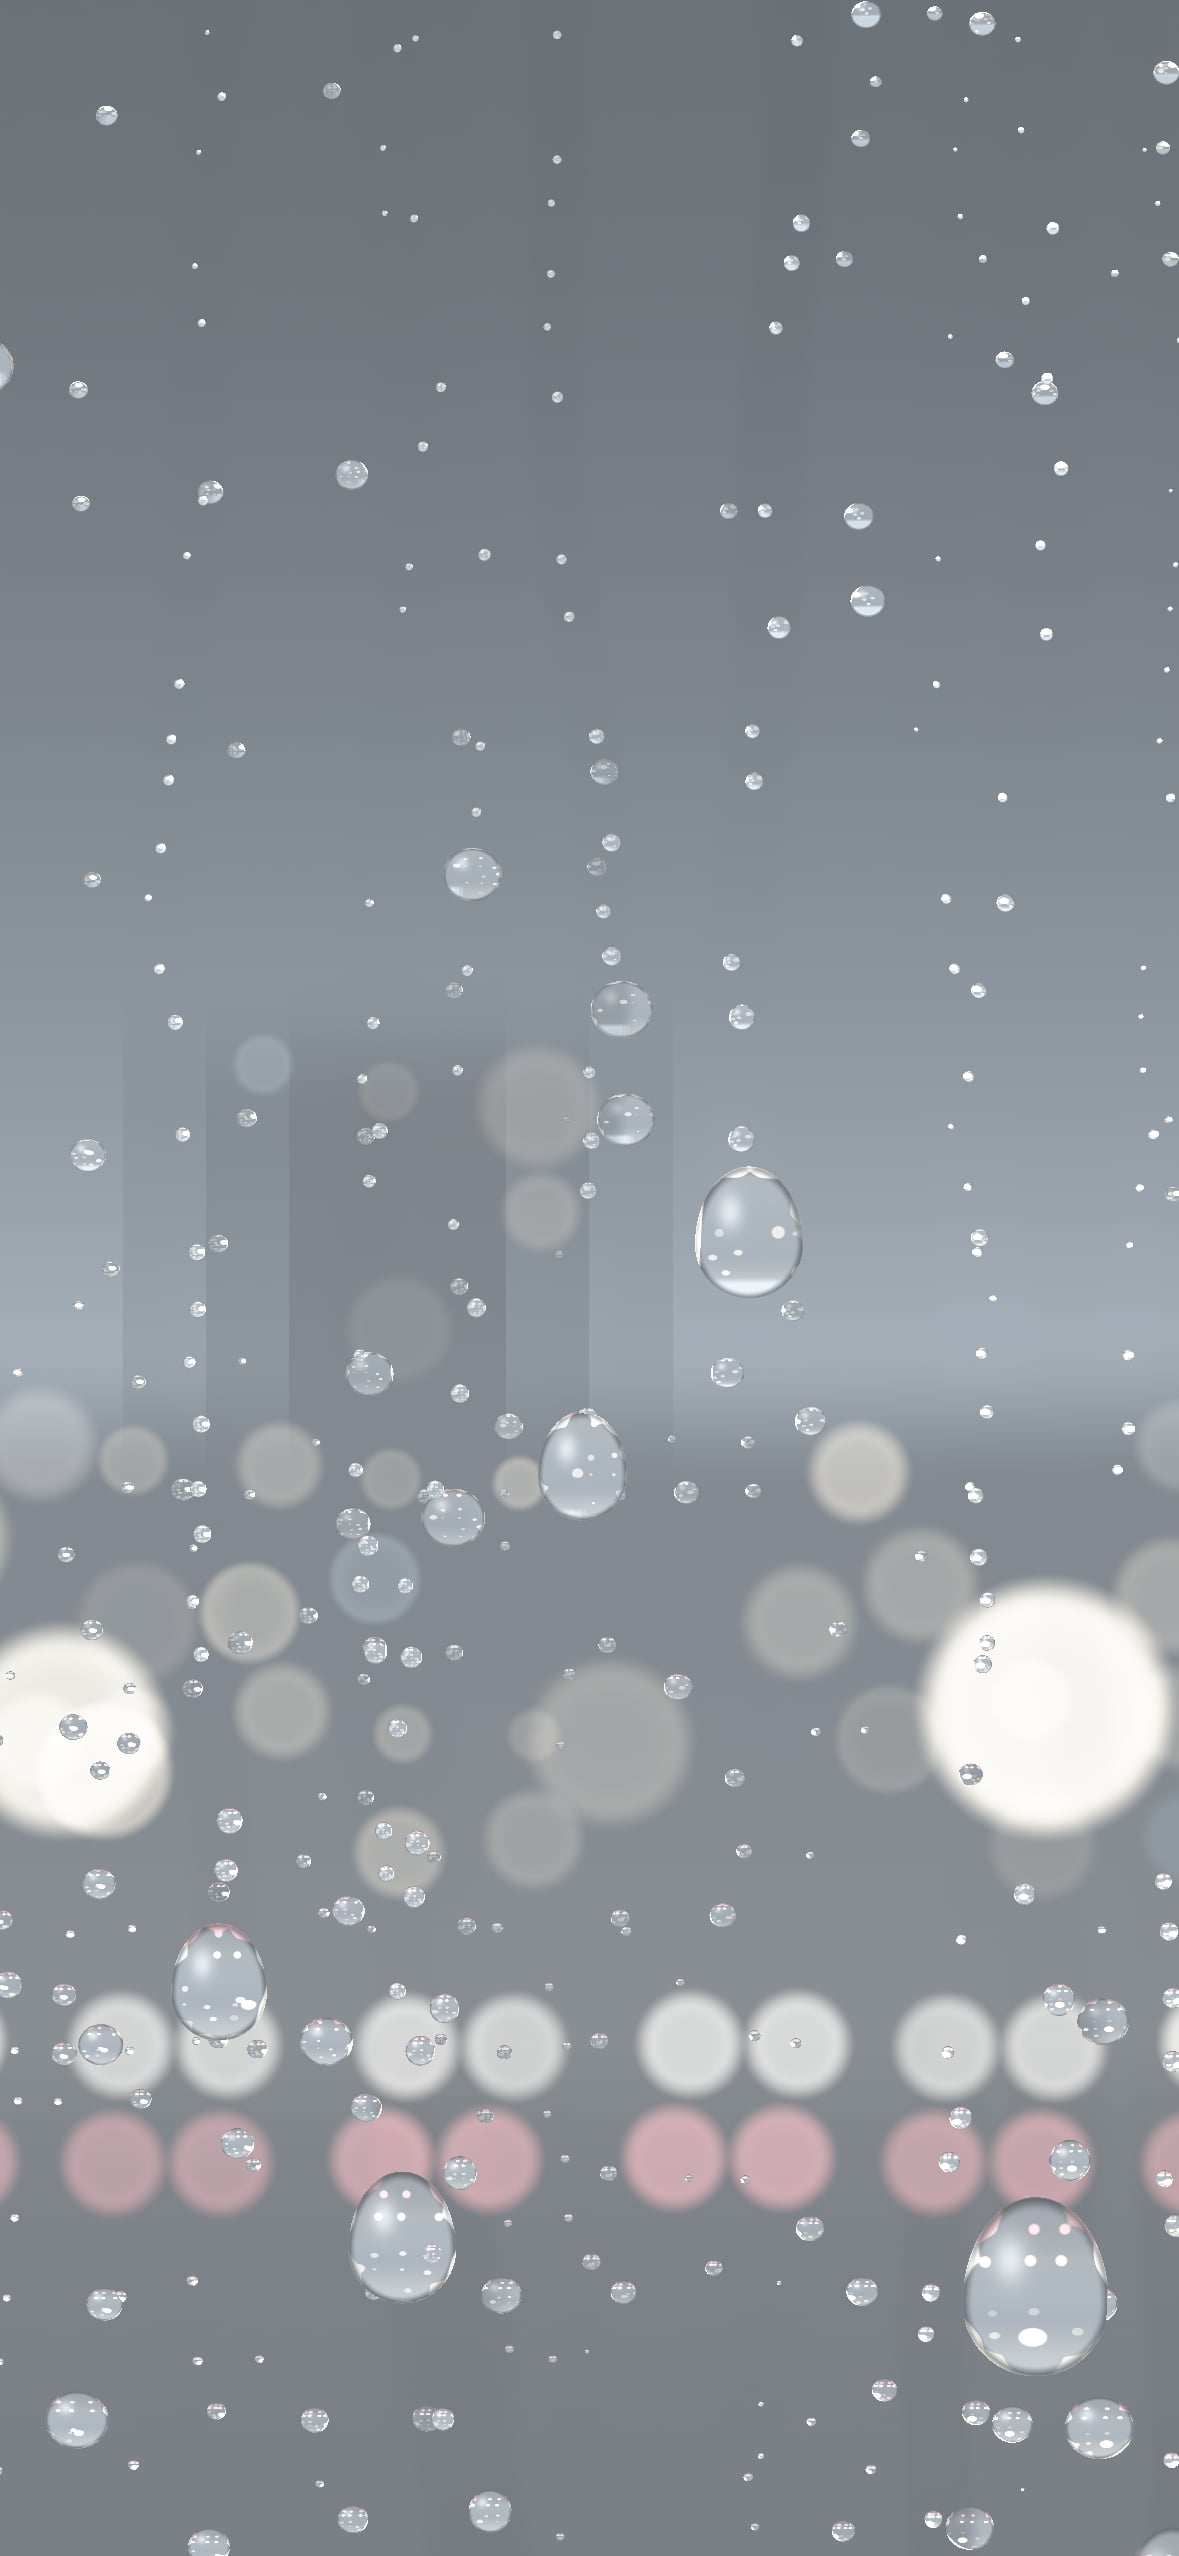
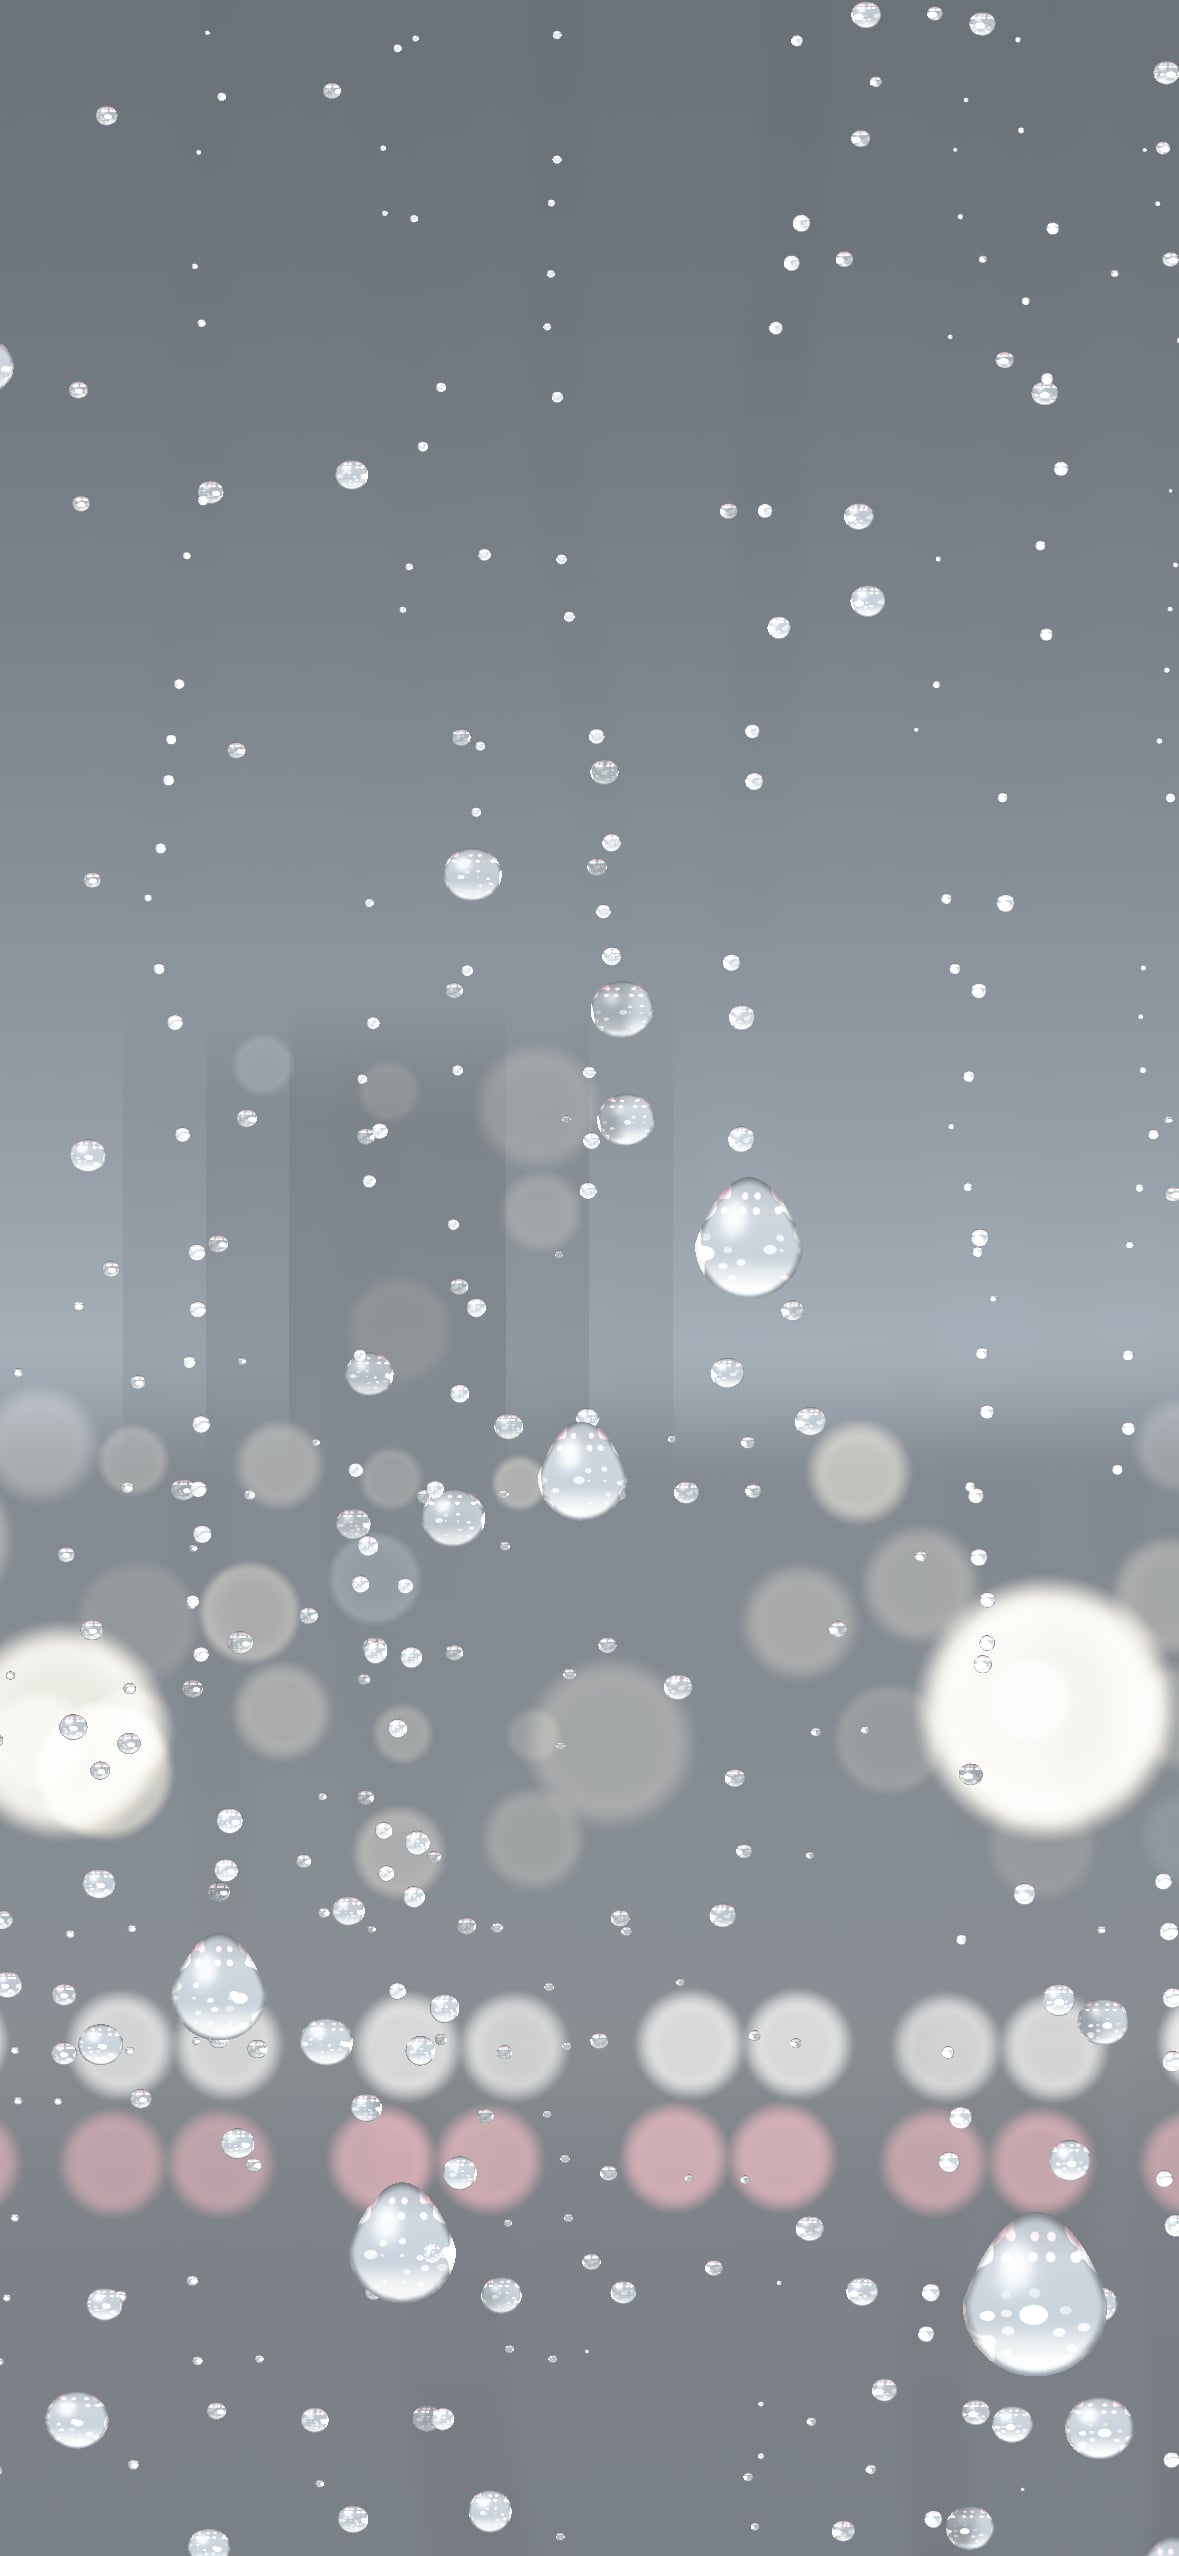
fix(live): Monsoon Glass drops are bright lenses holding the street lights

diff --git a/src/live/scenes/monsoon-glass.ts b/src/live/scenes/monsoon-glass.ts
@@ -191,7 +191,10 @@ vec4 slideLayer(vec2 p, float cw, float layer, inout float clear) {
   float aa = 1.5 / uRes.y;
 
   vec2 q = (p - vec2(pathX(yd, ci, cw, h1, h2), yd)) / r;
-  q.y /= q.y > 0.0 ? 1.45 : 1.0; // a short tail above the drop
+  // A round head with a short, thinner tail above it.
+  float up = max(q.y, 0.0);
+  q.y /= q.y > 0.0 ? 1.25 : 1.0;
+  q.x *= 1.0 + 0.3 * min(up, 1.2);
   float d = length(q);
   vec4 drop = vec4(1.0 - smoothstep(1.0 - aa / r, 1.0, d), q, r);
 
@@ -247,16 +250,16 @@ vec3 scene(vec2 uv) {
   float d = length(q);
   float rim = smoothstep(0.85, 1.0, d);
 
-  // Inside a drop the city is seen flipped and small (the drop is a lens with a wide view), centred
-  // on the lit street band so every drop holds a few bright lights. The whole offset applies even on
+  // Inside a drop the city is seen flipped and small (the drop is a lens with a wide view), always
+  // centred on the lit street and skyline band so every drop holds several bright lights. The whole offset applies even on
   // a drop's anti-aliased edge (a part offset would land on unrelated lights and speckle the
   // outline); the rim's blur is high, so that edge stays soft.
   vec2 parallax = uMouse * vec2(0.035, 0.025);
   float inside = step(0.002, m);
-  vec2 inView = vec2(uv.x - q.x * (drop.w + 0.1), mix(uv.y, STREET + 0.1, 0.8) - q.y * 0.16);
+  vec2 inView = vec2(uv.x - q.x * (drop.w + 0.14), STREET + 0.1 - q.y * 0.2);
   vec2 lookup = mix(uv, inView, inside) + parallax;
   // Sharper inside drops, softened at the rim and in tiny beads so shrunken lights never alias.
-  float dropBlur = (0.4 + 1.2 * rim) * max(1.0, 0.01 / max(drop.w, 1e-4));
+  float dropBlur = (0.55 + 1.1 * rim) * max(1.0, 0.01 / max(drop.w, 1e-4));
   // Outside drops the lights keep one size (the defocus is the eye's); the mist only veils them.
   float blur = u_blur * mix(1.0, dropBlur, inside);
   vec3 col = city(lookup, blur);
@@ -268,11 +271,12 @@ vec3 scene(vec2 uv) {
 
   // A drop is brighter than the glass: it gathers light, has a bright crescent low down where
   // light focuses, a thin dark rim, and a highlight up and to the left.
-  vec3 inDrop = col * 1.5 + glow * 0.5;
-  inDrop += toLinear(u_light) * 0.18 * smoothstep(0.2, 0.9, -q.y) * (1.0 - rim);
-  inDrop *= mix(1.0, 0.35, rim);
-  vec2 hq = q - vec2(-0.35, 0.42);
-  inDrop += vec3(1.0) * exp(-dot(hq, hq) * 22.0) * 0.35;
+  vec3 warm = toLinear(u_light);
+  vec3 inDrop = col * 1.6 + glow * 1.2 + warm * 0.025;
+  inDrop += warm * 0.45 * smoothstep(0.15, 0.9, -q.y) * (1.0 - rim);
+  inDrop *= mix(1.0, 0.4, rim);
+  vec2 hq = q - vec2(-0.32, 0.4);
+  inDrop += vec3(1.0) * exp(-dot(hq, hq) * 18.0) * 0.6;
   col = mix(col, inDrop, m);
 
   col *= mix(1.0, 0.8, smoothstep(0.45, 1.15, length(uv * vec2(0.8, 1.0))));
